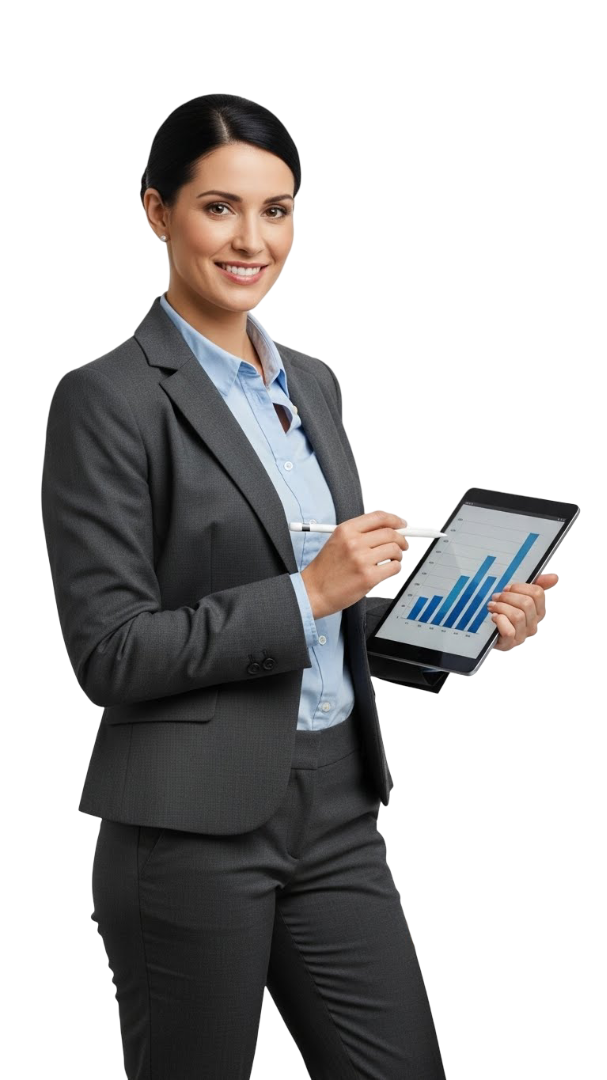
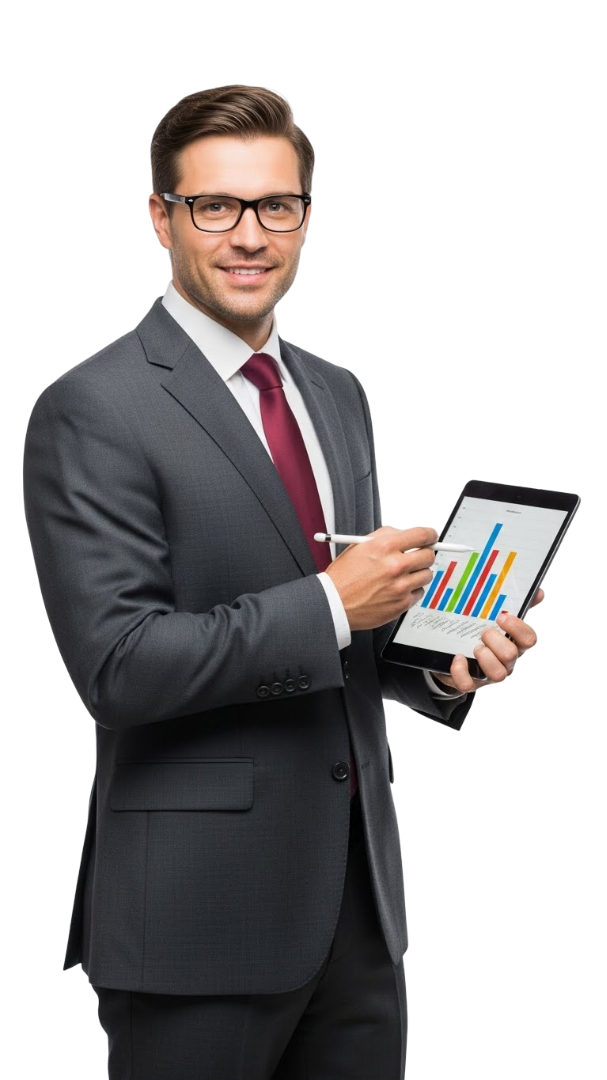
image size changed

Changed region(s): [[0.0297, 0.0611, 0.9786, 1.0]]

diff --git a/pf-services.html b/pf-services.html
@@ -75,7 +75,7 @@
                 <!-- Right: Image with Responsive Positioning -->
                 <div class="hidden md:block relative" style="height: 600px;">
                     <img src="images/11 (1).png" alt="PF (EPF) Services" class="w-auto object-contain"
-                        style="position: absolute; right: 25%; top: 18.5%; max-height: 520px; height: auto;"
+                        style="position: absolute; right: 25%; top: 2%; max-height: 620px; height: auto;"
                         onerror="this.style.display='none'">
                 </div>
             </div>

diff --git a/mca-services.html b/mca-services.html
@@ -75,7 +75,7 @@
                 <!-- Right: Image with Responsive Positioning -->
                 <div class="hidden md:block relative" style="height: 600px;">
                     <img src="images/3 (2).png" alt="MCA Services" class="w-auto object-contain"
-                        style="position: absolute; right: 25%; top: 18.5%; max-height: 520px; height: auto;"
+                        style="position: absolute; right: 25%; top: 2%; max-height: 620px; height: auto;"
                         onerror="this.style.display='none'">
                 </div>
             </div>

diff --git a/fssai-services.html b/fssai-services.html
@@ -75,7 +75,7 @@
                 <!-- Right: Image with Responsive Positioning -->
                 <div class="hidden md:block relative" style="height: 600px;">
                     <img src="images/18.png" alt="FSSAI Services" class="w-auto object-contain"
-                        style="position: absolute; right: 25%; top: 18.5%; max-height: 520px; height: auto;"
+                        style="position: absolute; right: 25%; top: 2%; max-height: 620px; height: auto;"
                         onerror="this.style.display='none'">
                 </div>
             </div>
